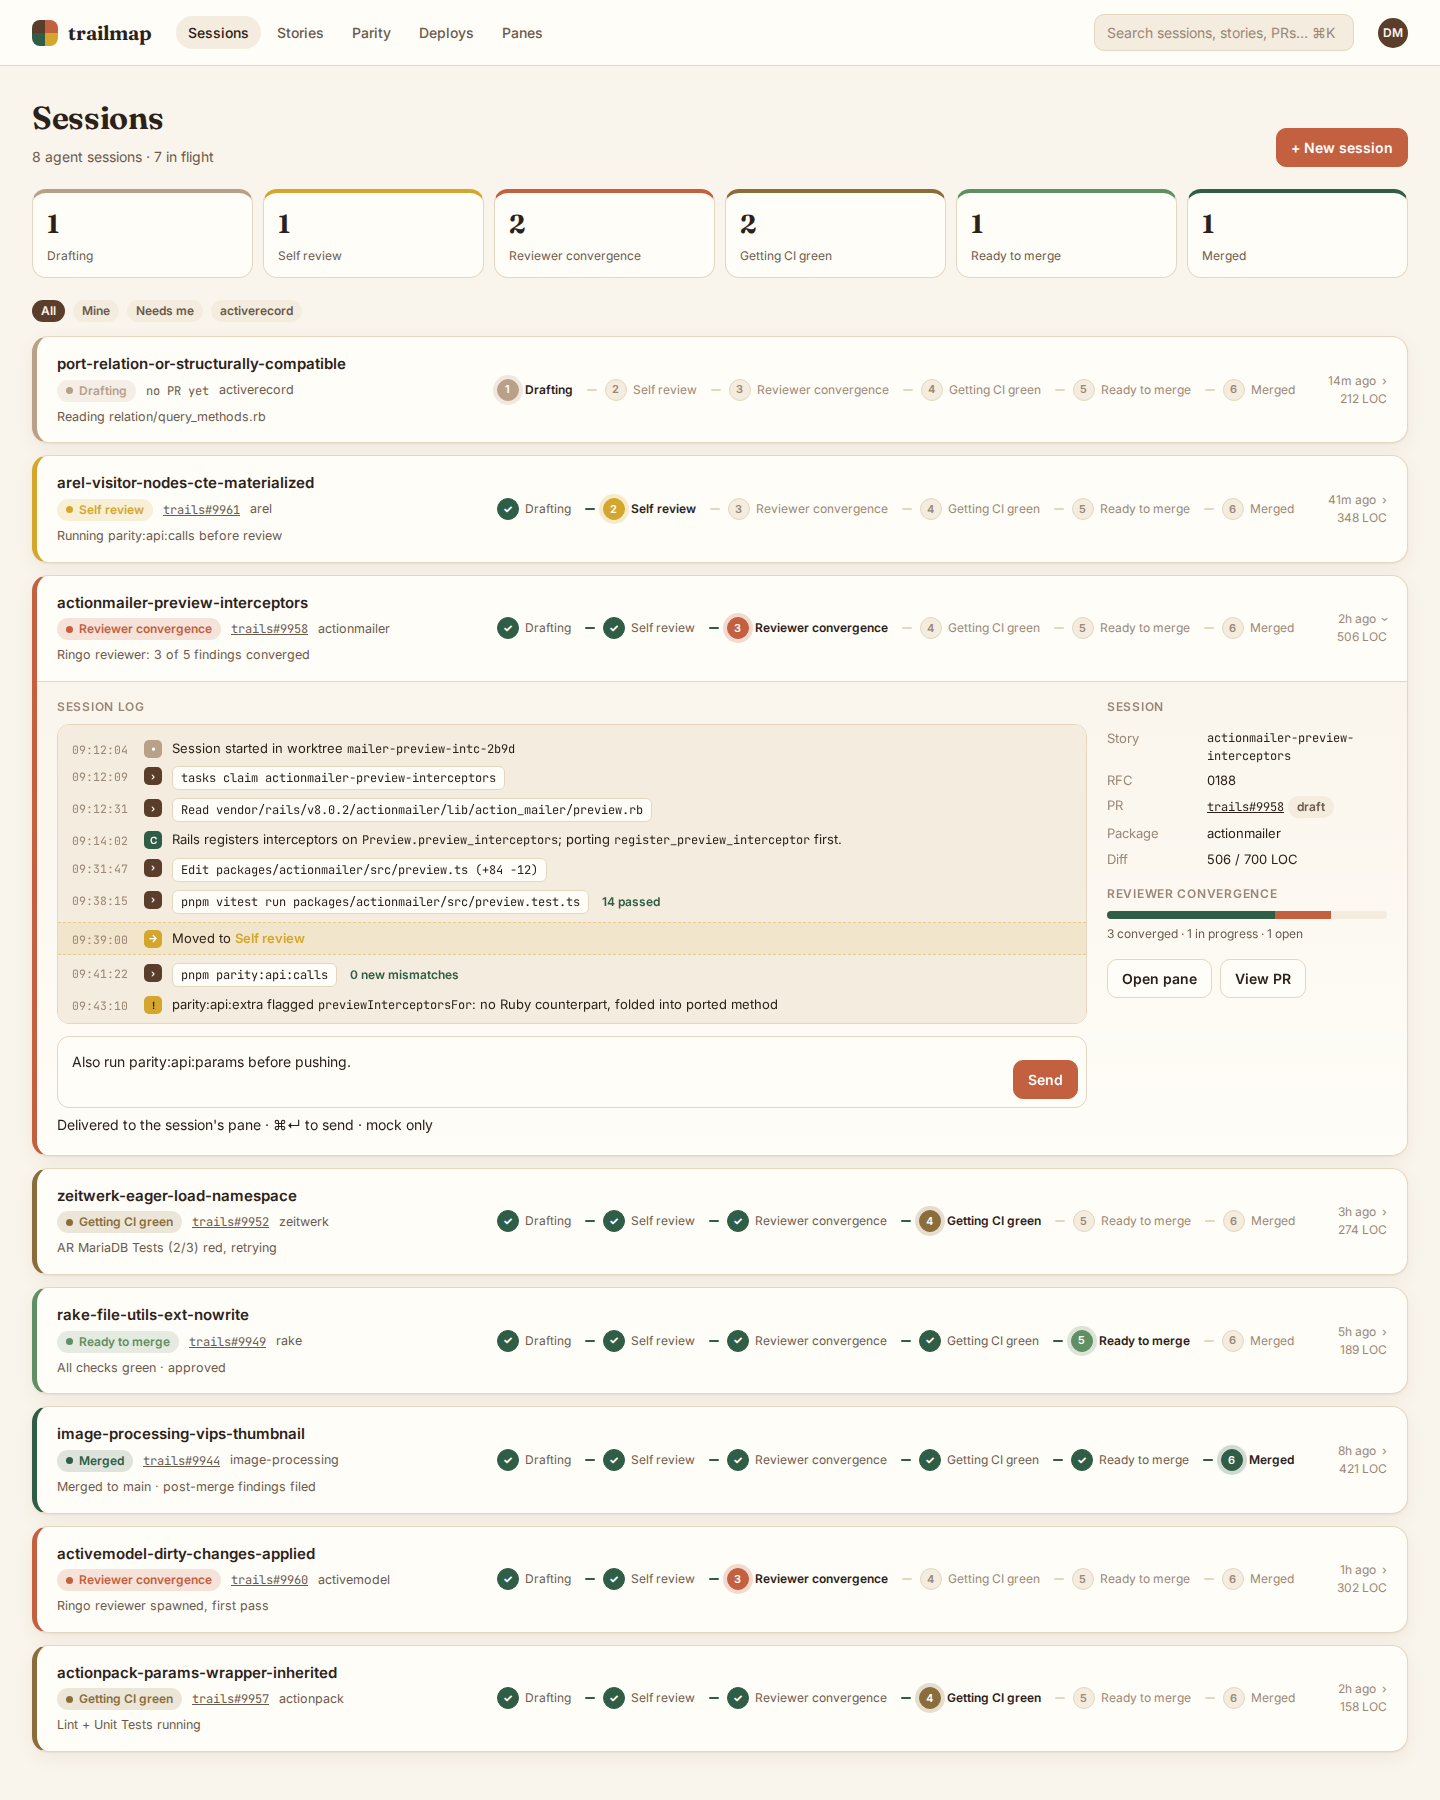
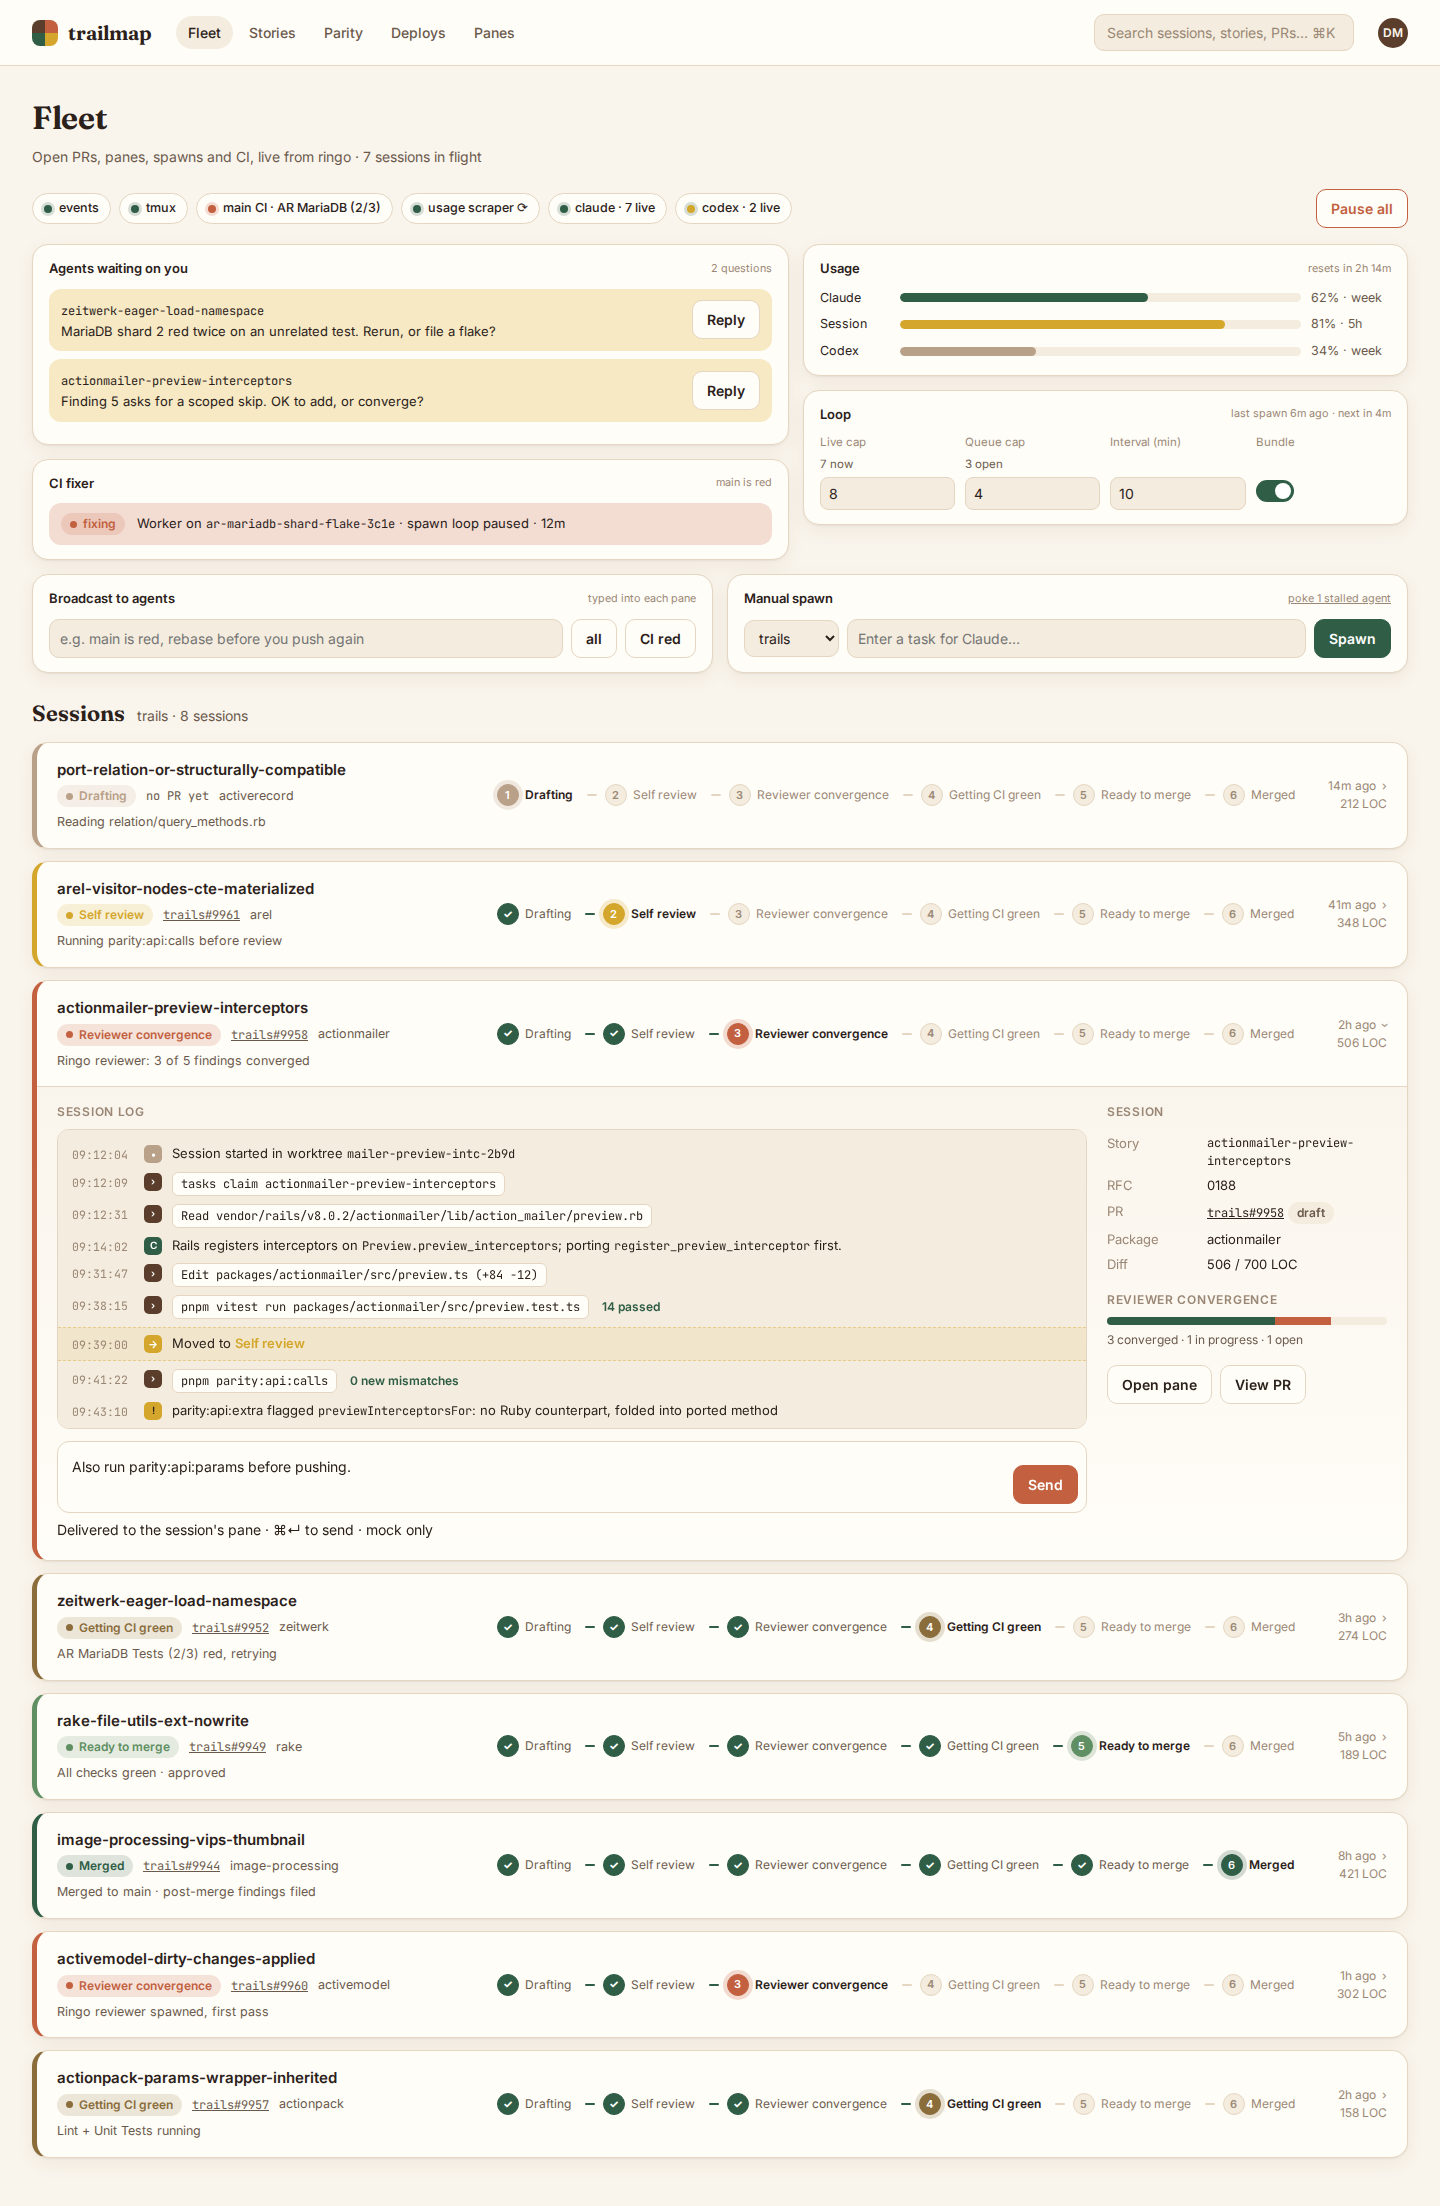
docs(concepts): B replaces the stage summary with the fleet page's panels

Changed region(s): [[0.0, 0.0, 1.0, 0.9956], [0.75, 0.0, 1.0, 0.0311], [0.9375, 0.6533, 0.9688, 0.6844]]

diff --git a/concepts/redesign/b-stepper-list.html b/concepts/redesign/b-stepper-list.html
@@ -2,14 +2,40 @@
 <html lang="en">
 <head>
 <meta charset="utf-8"><meta name="viewport" content="width=device-width,initial-scale=1">
-<title>Concept B · Stepper list</title>
+<title>Concept B · Fleet stepper</title>
 <link rel="stylesheet" href="palette.css">
 <script src="data.js"></script><script src="common.js"></script>
 <style>
-.summary { display: grid; grid-template-columns: repeat(6, 1fr); gap: 10px; margin-bottom: 22px; }
-.sum { background: var(--surface); border: 1px solid var(--line); border-radius: 14px; padding: 12px 14px; border-top: 4px solid var(--c); }
-.sum b { font-family: var(--display); font-size: 26px; display: block; }
-.sum span { color: var(--ink-2); font-size: 12px; }
+.status { display: flex; gap: 8px; flex-wrap: wrap; align-items: center; margin-bottom: 16px; }
+.pill { display: inline-flex; align-items: center; gap: 7px; padding: 5px 11px; border-radius: 999px; background: var(--surface); border: 1px solid var(--line); font-size: 12.5px; font-weight: 500; }
+.pill .led { width: 8px; height: 8px; border-radius: 50%; background: var(--forest); box-shadow: 0 0 0 3px color-mix(in srgb, var(--forest) 20%, transparent); }
+.pill.bad .led { background: var(--terracotta); box-shadow: 0 0 0 3px color-mix(in srgb, var(--terracotta) 20%, transparent); }
+.pill.warn .led { background: var(--mustard); }
+.status .grow { flex: 1; }
+.btn.danger { border-color: var(--terracotta); color: var(--terracotta); }
+.panels { display: grid; grid-template-columns: 1.25fr 1fr; gap: 14px; margin-bottom: 14px; }
+.panel { background: var(--surface); border: 1px solid var(--line); border-radius: 16px; padding: 14px 16px; box-shadow: var(--shadow); }
+.panel h2 { margin: 0 0 10px; font-size: 13px; font-weight: 600; display: flex; justify-content: space-between; align-items: center; }
+.panel h2 small { font-weight: 400; color: var(--ink-3); }
+.stack { display: flex; flex-direction: column; gap: 14px; }
+.ask { display: grid; grid-template-columns: 1fr auto; gap: 10px; padding: 10px 12px; border-radius: 12px; background: var(--mustard-soft); margin-bottom: 8px; align-items: center; }
+.ask q { display: block; color: var(--ink); font-size: 13px; margin-top: 2px; }
+.ask q::before, .ask q::after { content: ""; }
+.fixer { display: flex; gap: 12px; align-items: center; font-size: 13px; padding: 10px 12px; border-radius: 12px; background: var(--terracotta-soft); }
+.usage-row { display: grid; grid-template-columns: 70px 1fr 80px; gap: 10px; align-items: center; font-size: 12.5px; margin-bottom: 8px; }
+.meter { height: 9px; border-radius: 99px; background: var(--surface-2); overflow: hidden; }
+.meter i { display: block; height: 100%; border-radius: 99px; }
+.loop { display: grid; grid-template-columns: repeat(4, 1fr); gap: 10px; }
+.loop label { font-size: 11.5px; color: var(--ink-3); display: flex; flex-direction: column; gap: 4px; }
+.loop input[type=number] { font: inherit; font-size: 14px; color: var(--ink); background: var(--surface-2); border: 1px solid var(--line); border-radius: 8px; padding: 5px 8px; width: 100%; }
+.toggle { width: 38px; height: 22px; border-radius: 99px; background: var(--forest); position: relative; margin-top: 3px; }
+.toggle::after { content: ""; position: absolute; right: 3px; top: 3px; width: 16px; height: 16px; border-radius: 50%; background: #fff; }
+.actions { display: grid; grid-template-columns: 1fr 1fr; gap: 14px; margin-bottom: 24px; }
+.inline { display: flex; gap: 8px; align-items: center; }
+.inline input, .inline select { font: inherit; background: var(--surface-2); border: 1px solid var(--line); border-radius: 10px; padding: 8px 10px; color: var(--ink); }
+.inline input { flex: 1; }
+.section-head { display: flex; align-items: baseline; gap: 12px; margin: 0 0 12px; }
+.section-head h2 { font-family: var(--display); font-size: 22px; margin: 0; }
 .filters { display: flex; gap: 8px; margin-bottom: 14px; }
 .sessions { display: flex; flex-direction: column; gap: 12px; }
 .card { background: var(--surface); border: 1px solid var(--line); border-radius: 16px; box-shadow: var(--shadow); overflow: hidden; border-left: 5px solid var(--c); }
@@ -33,7 +59,6 @@
 <body>
 <div id="app"></div>
 <script>
-const counts = Object.fromEntries(STAGES.map((s) => [s.key, SESSIONS.filter((x) => x.stage === s.key).length]));
 const side = (s) => `
   <div class="side">
     <h4>Session</h4>
@@ -52,11 +77,55 @@ const side = (s) => `
 document.getElementById("app").innerHTML = topbar() + `
 <main class="page">
   <div class="page-head">
-    <div><h1>Sessions</h1><p>${SESSIONS.length} agent sessions · ${SESSIONS.filter((s) => s.stage !== "merged").length} in flight</p></div>
-    <button class="btn primary">+ New session</button>
+    <div><h1>Fleet</h1><p>Open PRs, panes, spawns and CI, live from ringo · ${SESSIONS.filter((s) => s.stage !== "merged").length} sessions in flight</p></div>
   </div>
-  <section class="summary">${STAGES.map((s) => `<div class="sum stage-${s.key}"><b>${counts[s.key]}</b><span>${s.label}</span></div>`).join("")}</section>
-  <div class="filters"><span class="chip" style="background:var(--soil);color:var(--cream)">All</span><span class="chip">Mine</span><span class="chip">Needs me</span><span class="chip">activerecord</span></div>
+  <div class="status">
+    <span class="pill"><span class="led"></span>events</span>
+    <span class="pill"><span class="led"></span>tmux</span>
+    <span class="pill bad"><span class="led"></span>main CI · AR MariaDB (2/3)</span>
+    <span class="pill"><span class="led"></span>usage scraper ⟳</span>
+    <span class="pill"><span class="led"></span>claude · 7 live</span>
+    <span class="pill warn"><span class="led"></span>codex · 2 live</span>
+    <span class="grow"></span>
+    <button class="btn danger">Pause all</button>
+  </div>
+  <div class="panels">
+    <div class="stack">
+      <div class="panel">
+        <h2>Agents waiting on you <small>2 questions</small></h2>
+        <div class="ask"><div><span class="mono">zeitwerk-eager-load-namespace</span><q>MariaDB shard 2 red twice on an unrelated test. Rerun, or file a flake?</q></div><button class="btn">Reply</button></div>
+        <div class="ask"><div><span class="mono">actionmailer-preview-interceptors</span><q>Finding 5 asks for a scoped skip. OK to add, or converge?</q></div><button class="btn">Reply</button></div>
+      </div>
+      <div class="panel">
+        <h2>CI fixer <small>main is red</small></h2>
+        <div class="fixer"><span class="chip stage stage-ringo"><span class="dot"></span>fixing</span><span>Worker on <span class="mono">ar-mariadb-shard-flake-3c1e</span> · spawn loop paused · 12m</span></div>
+      </div>
+    </div>
+    <div class="stack">
+      <div class="panel">
+        <h2>Usage <small>resets in 2h 14m</small></h2>
+        <div class="usage-row"><span>Claude</span><div class="meter"><i style="width:62%;background:var(--forest)"></i></div><span class="muted">62% · week</span></div>
+        <div class="usage-row"><span>Session</span><div class="meter"><i style="width:81%;background:var(--mustard)"></i></div><span class="muted">81% · 5h</span></div>
+        <div class="usage-row" style="margin:0"><span>Codex</span><div class="meter"><i style="width:34%;background:var(--clay)"></i></div><span class="muted">34% · week</span></div>
+      </div>
+      <div class="panel">
+        <h2>Loop <small>last spawn 6m ago · next in 4m</small></h2>
+        <div class="loop">
+          <label>Live cap <span class="muted">7 now</span><input type="number" value="8"></label>
+          <label>Queue cap <span class="muted">3 open</span><input type="number" value="4"></label>
+          <label>Interval (min)<span>&nbsp;</span><input type="number" value="10"></label>
+          <label>Bundle<span>&nbsp;</span><span class="toggle"></span></label>
+        </div>
+      </div>
+    </div>
+  </div>
+  <div class="actions">
+    <div class="panel"><h2>Broadcast to agents <small>typed into each pane</small></h2>
+      <div class="inline"><input placeholder="e.g. main is red, rebase before you push again"><button class="btn">all</button><button class="btn">CI red</button></div></div>
+    <div class="panel"><h2>Manual spawn <small><a href="#">poke 1 stalled agent</a></small></h2>
+      <div class="inline"><select><option>trails</option><option>trailmap</option><option>tasks</option></select><input placeholder="Enter a task for Claude…"><button class="btn primary" style="background:var(--forest);border-color:var(--forest)">Spawn</button></div></div>
+  </div>
+  <div class="section-head"><h2>Sessions</h2><span class="muted">trails · ${SESSIONS.length} sessions</span></div>
   <section class="sessions">${SESSIONS.map((s) => `
     <article class="card stage-${s.stage} ${openId === s.id ? "open" : ""}">
       <div class="card-main">

diff --git a/concepts/redesign/common.js b/concepts/redesign/common.js
@@ -3,10 +3,10 @@ window.openId = new URLSearchParams(location.search).get("open");
 window.stageIdx = (k) => STAGES.findIndex((s) => s.key === k);
 window.stageOf = (k) => STAGES[stageIdx(k)];
 
-window.topbar = (active = "Sessions") => `
+window.topbar = (active = "Fleet") => `
   <header class="topbar">
     <div class="brand"><span class="brand-mark"></span>trailmap</div>
-    <nav class="nav">${["Sessions", "Stories", "Parity", "Deploys", "Panes"].map((n) => `<a href="#" class="${n === active ? "on" : ""}">${n}</a>`).join("")}</nav>
+    <nav class="nav">${["Fleet", "Stories", "Parity", "Deploys", "Panes"].map((n) => `<a href="#" class="${n === active ? "on" : ""}">${n}</a>`).join("")}</nav>
     <div class="spacer"></div>
     <div class="search">Search sessions, stories, PRs…  ⌘K</div>
     <div class="avatar">DM</div>
